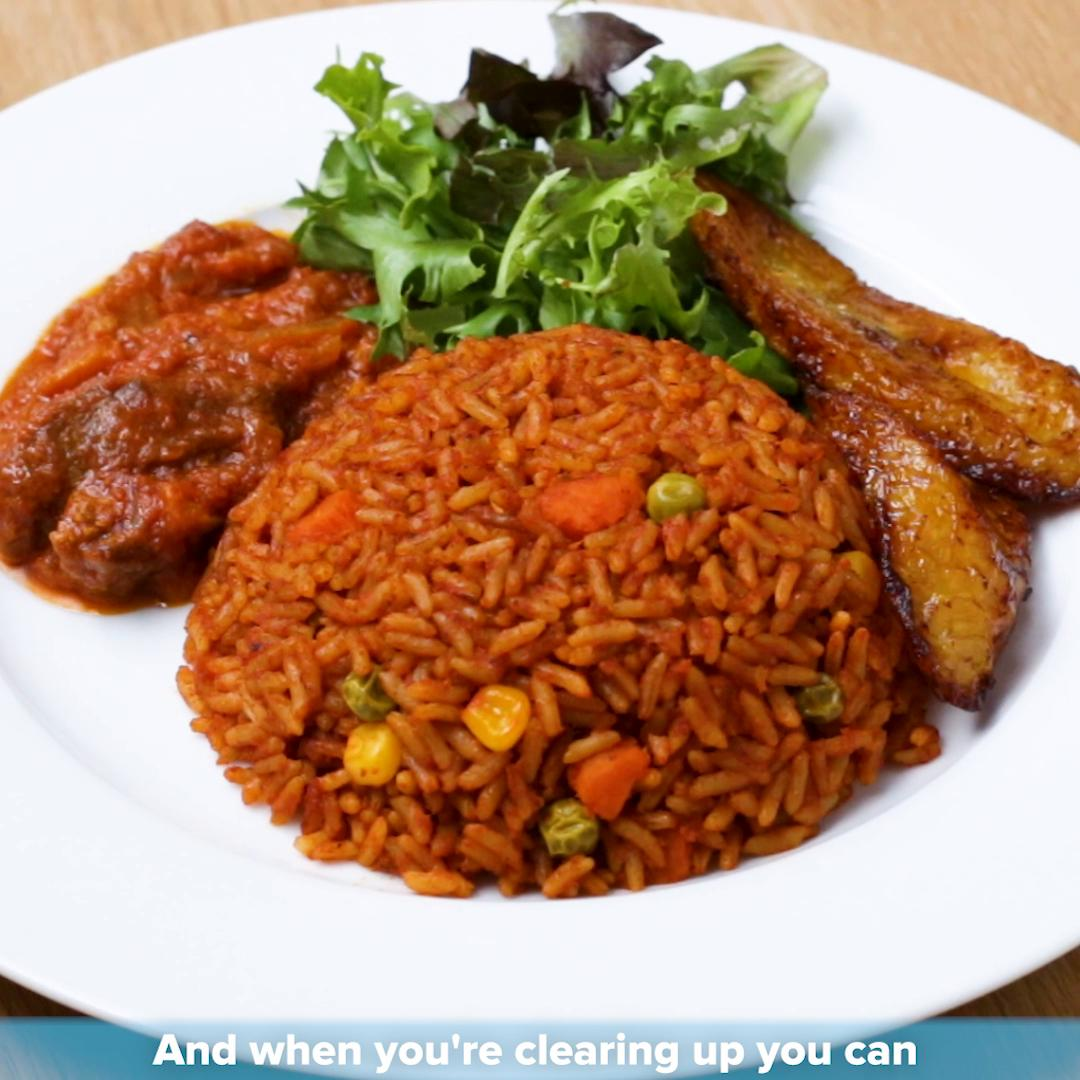
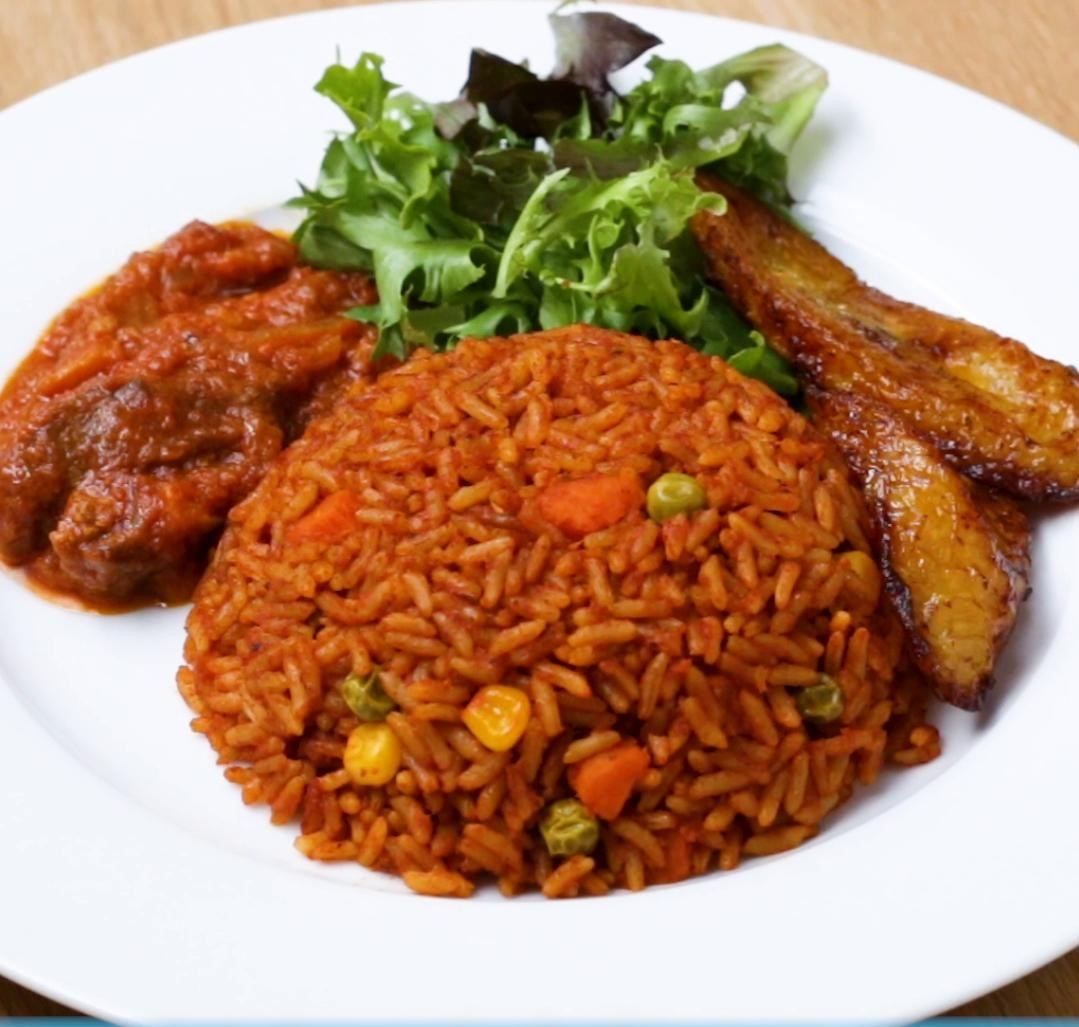
Added css styles and cropped the jollof image

diff --git a/recipes/jollof.html b/recipes/jollof.html
@@ -5,25 +5,25 @@
     <meta http-equiv="X-UA-Compatible" content="IE=edge">
     <meta name="viewport" content="width=device-width, initial-scale=1.0">
     <title>Jollof</title>
+    <link rel="stylesheet" href="jollof.css">
 </head>
 <body>
     <h1>Jollof</h1>
-    <p><a href="../index.html">Return to Homepage</a></p>
     <img src="../images/jollof.jpg" alt="delicious Jollof rice">
-    <h2>Description</h2>
+    <h2 class="sub">Description</h2>
     <p>Jollof rice was at the heart of a controversy a few years ago, between Ghana and Nigeria, and later joined by Gambia, each claiming that the food originated from them. It is undoubtedly one of the most delicious meals you can find on the African contnent and even internationally.</p>
     <p>It is prepared from rice cooked in a sauce, mostly tomato sauce, redish or yellowish in color and with a great taste!</p>
-    <h3>Ingredients</h3>
+    <h3 class="sub">Ingredients</h3>
     <ul>
-        <li>Rice</li>
-        <li>Cooking Oil</li>
-        <li>Water</li>
-        <li>Tomato paste</li>
-        <li>Pepper</li>
-        <li>Onions</li>
-        <li>Salt</li>
+        <li class="ingredients">Rice</li>
+        <li class="ingredients">Cooking Oil</li>
+        <li class="ingredients">Water</li>
+        <li class="ingredients">Tomato paste</li>
+        <li class="ingredients">Pepper</li>
+        <li class="ingredients">Onions</li>
+        <li class="ingredients">Salt</li>
     </ul>
-    <h3>Steps</h3>
+    <h3 class="sub">Steps</h3>
     <ol>
         <li>Heat the cooking oil in a sauce pan</li>
         <li>Add chopped onions and pepper</li>
@@ -35,5 +35,6 @@
         <li>Add salt and allow it cook until it is well cooked</li>
         <li>Serve it hot with some grilled chicken or meat. Enjoy!</li>
     </ol>
+    <p><a href="../index.html">Return to Homepage</a></p>
 </body>
 </html>

diff --git a/recipes/fufu.html b/recipes/fufu.html
@@ -5,21 +5,21 @@
     <meta http-equiv="X-UA-Compatible" content="IE=edge">
     <meta name="viewport" content="width=device-width, initial-scale=1.0">
     <title>Fufu</title>
+    <link rel="stylesheet" href="fufu.css">
 </head>
 <body>
     <h1>Fufu</h1>
-    <p><a href="../index.html">Return to Homepage</a></p>
     <img src="../images/fufu.jpg" alt="delicious fufu">
-    <h2>Description</h2>
+    <h2 class="sub">Description</h2>
     <p>Fufu is a starchy dough that takes on different forms (and names) across many West African countries. However the name 'Fufu' is most commonly associated with Ghana, specifically with the Akan ethnic group. Ghanaian Fufu is commonly made by “pounding” cassava and unripe plantains together into a paste, which is then molded by hand into a ball shape and served with a special sauce/soup.</p>
     <p>In essence it is the sauce/soup that really gives each Fufu dish its unique identity. In Ghana, the common Fufu dishes are Fufu with Light Soup, Fufu with Palm Nut Soup and Fufu with Groundnut Soup.</p>
-    <h3>Ingredients</h3>
+    <h3 class="sub">Ingredients</h3>
     <ul>
-        <li>Cassava</li>
-        <li>Plantain</li>
-        <li>Soup</li>
+        <li class="ingredients">Cassava</li>
+        <li class="ingredients">Plantain</li>
+        <li class="ingredients">Soup</li>
     </ul>
-    <h3>Steps</h3>
+    <h3 class="sub">Steps</h3>
     <ol>
         <li>Boil the Cassava and Plantain until it is well cooked</li>
         <li>Pound the platain first in a mortar with a pestle until, while adding a little water until its soft</li>
@@ -27,5 +27,6 @@
         <li>Mix the two together until you get a fine mixture</li>
         <li>Serve the food with already prepared soup</li>
     </ol>
+    <p><a href="../index.html">Return to Homepage</a></p>
 </body>
 </html>

diff --git a/recipes/banku.html b/recipes/banku.html
@@ -5,26 +5,27 @@
     <meta http-equiv="X-UA-Compatible" content="IE=edge">
     <meta name="viewport" content="width=device-width, initial-scale=1.0">
     <title>Banku</title>
+    <link rel="stylesheet" href="banku.css">
 </head>
 <body>
     <h1>Banku</h1>
-    <p><a href="../index.html">Return to Homepage</a></p>
     <img src="../images/banku.jpg" alt="delicious banku">
-    <h2>Description</h2>
+    <h2 class="sub">Description</h2>
     <p>Banku is a local African recipe, made of corn dough, sometimes mixed with cassava dough. The dough is usually made from corn that has been soaked in water for about two to three days. It is a delicious delicacy in countries like Ghana, and can be eaten with soup or stew.</p>
-    <h3>Ingredients</h3>
+    <h3 class="sub">Ingredients</h3>
     <ul>
-        <li>Corn dough</li>
-        <li>Cassava dough</li>
-        <li>Water</li>
-        <li>Soup</li>
+        <li class="ingredients">Corn dough</li>
+        <li class="ingredients">Cassava dough</li>
+        <li class="ingredients">Water</li>
+        <li class="ingredients">Soup</li>
     </ul>
-    <h3>Steps</h3>
+    <h3 class="sub">Steps</h3>
     <ol>
         <li>Mix the corn dough (and cassava dough) with water until there are no lumps</li>
         <li>Put the mixture on fire and stir until it become hard (like a paste)</li>
-        <li>Keep adding small amounts of water and salt until it gets a yelowish color</li>
+        <li>Keep adding smclass="ingredients"all amounts of water and salt until it gets a yelowish color</li>
         <li>Serve the food with already prepared soup or stew</li>
     </ol>
+    <p><a href="../index.html">Return to Homepage</a></p>
 </body>
 </html>

diff --git a/index.css b/index.css
@@ -1,0 +1,17 @@
+body {
+    background-color: rgb(233, 227, 227);
+}
+
+h3{
+    background-color: greenyellow;
+}
+h1 {
+    background-color: rgb(193, 255, 47);
+    text-align: center;
+    font-weight: bold;
+    font-size: 50px;
+}
+img {
+    height: auto;
+    width: 615px;
+}

diff --git a/recipes/fufu.css b/recipes/fufu.css
@@ -1,0 +1,18 @@
+h1 {
+    font-size: 50px;
+    text-align: center;
+    background-color: rgba(216, 32, 19, 0.884);
+}
+
+img {
+    height: auto;
+    width: 615px;
+}
+
+.sub {
+    background-color: rgb(143, 137, 137);
+}
+
+.ingredients {
+    font-style: italic;
+}

diff --git a/recipes/banku.css b/recipes/banku.css
@@ -1,0 +1,18 @@
+h1 {
+    font-size: 50px;
+    text-align: center;
+    background-color: rgba(129, 37, 1, 0.884);
+}
+
+img {
+    height: auto;
+    width: 615px;
+}
+
+.sub {
+    background-color: rgb(143, 137, 137);
+}
+
+.ingredients {
+    font-style: italic;
+}

diff --git a/recipes/jollof.css b/recipes/jollof.css
@@ -1,0 +1,18 @@
+h1 {
+    font-size: 50px;
+    text-align: center;
+    background-color: rgba(238, 87, 0, 0.884);
+}
+
+img {
+    height: auto;
+    width: 615px;
+}
+
+.sub {
+    background-color: rgb(143, 137, 137);
+}
+
+.ingredients {
+    font-style: italic;
+}

diff --git a/index.html b/index.html
@@ -5,6 +5,7 @@
     <meta http-equiv="X-UA-Compatible" content="IE=edge">
     <meta name="viewport" content="width=device-width, initial-scale=1.0">
     <title>Homepage</title>
+    <link rel="stylesheet" href="index.css"> 
 </head>
 <body>
     <h1>Odin Recipes</h1>
